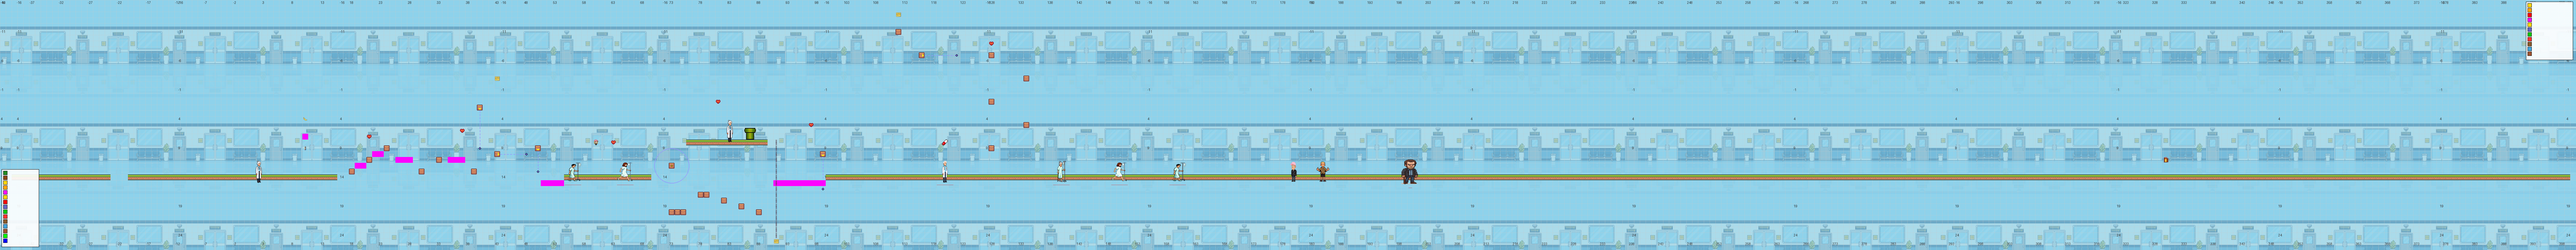
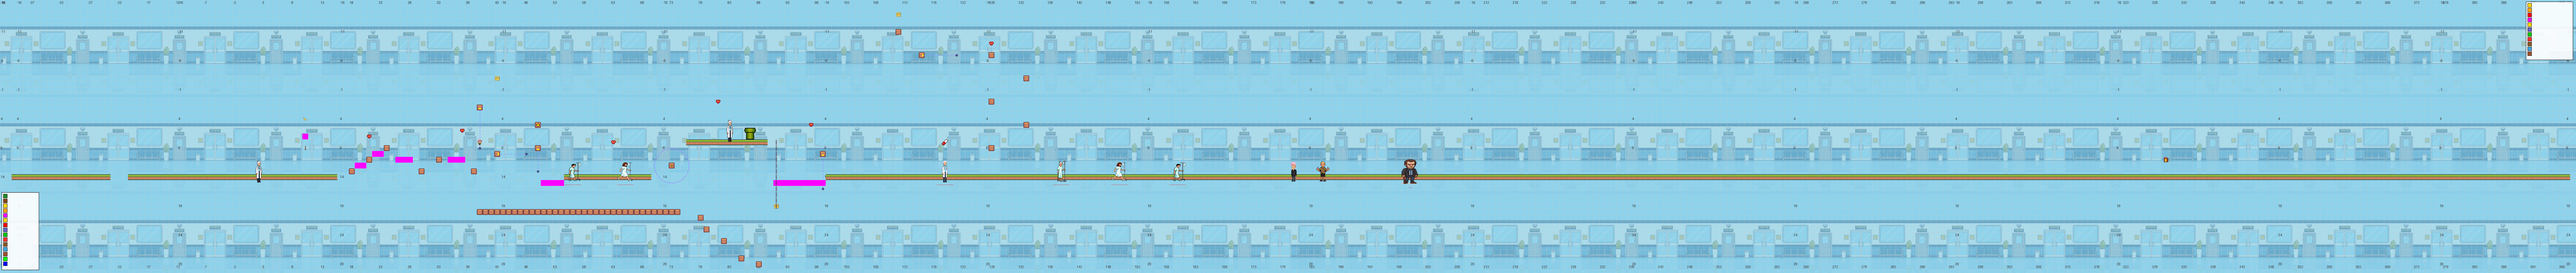
new enemy

diff --git a/platformer/levels/hospital.py b/platformer/levels/hospital.py
@@ -4,7 +4,7 @@ level_config = {
     "level_time": 240,  # Time limit in seconds (4 minutes)
     # Player spawn point (optional) - x and y coordinates in grid units
     # If not specified, defaults to PLAYER_START_X, PLAYER_START_Y from settings.py
-    "player_spawn": (60, 8),  # Example: spawn at grid position (5, 1)
+    "player_spawn": (80, 8),  # Example: spawn at grid position (5, 1)
     # Player thought bubble at level start
     "player_start_message": "Nur noch diese Schicht \n und dann endlich zur Fusion...",
     "player_start_message_color": (255, 255, 255),  # White
@@ -46,10 +46,10 @@ level_config = {
     # Poppable blocks (like Mario question blocks)
     "poppable_block_locations": [
         {
-            "x": 63,
-            "y": 8,
+            "x": 50,
+            "y": 5,
             "type": "item",
-            "item": {"type": "powerup", "powerup_type": 6},
+            "item": {"type": "powerup", "powerup_type": 3},
             "image": "medizinschrank.png",  # Eigenes Bild
         },  # Releases a powerup
     ],
@@ -94,7 +94,7 @@ level_config = {
             "encounter_message_color": (255, 0, 0),  # Red
         },
         {
-            "type": "doctor_f_follower",
+            "type": "doctor_f_young_follower",
             "x": 83,
             "y": 6,
             "encounter_message": "Frau Hegselmann, können Sie sich \n bitte kurz in der Notaufnahme melden?",

diff --git a/platformer/config/enemy_config.py b/platformer/config/enemy_config.py
@@ -286,6 +286,39 @@ ENEMY_TYPES = {
         "shoot_cooldown": 60,
         "no_clip": True,  # Can walk through blocks
     },
+    "doctor_f_young": {
+        "name": "Doctor_f_young",
+        "image": "enemies/hospital/ärztin_jung.png",
+        "speed": 1,
+        "patrol_range": 50,
+        "size_multiplier": 4,
+        "health": 2,
+        "damage": 2,
+        "shoot_range": 0,
+        "chase_range": 10,
+        "melee_damage": 1,
+        "can_throw_explosives": False,
+        "can_summon_minions": False,
+        "encounter_message": None,
+        "shoot_cooldown": 60,
+    },
+    "doctor_f_young_follower": {
+        "name": "Doctor_f_young_follower",
+        "image": "enemies/hospital/ärztin_jung.png",
+        "speed": 2,
+        "patrol_range": 0,
+        "size_multiplier": 4,
+        "health": 99999,
+        "damage": 0,
+        "shoot_range": 0,
+        "chase_range": 1000,
+        "melee_damage": 0,
+        "can_throw_explosives": False,
+        "can_summon_minions": False,
+        "encounter_message": None,
+        "shoot_cooldown": 60,
+        "no_clip": True,  # Can walk through blocks
+    },
     "doctor": {
         "name": "Doctor",
         "image": "enemies/hospital/doctor.png",
